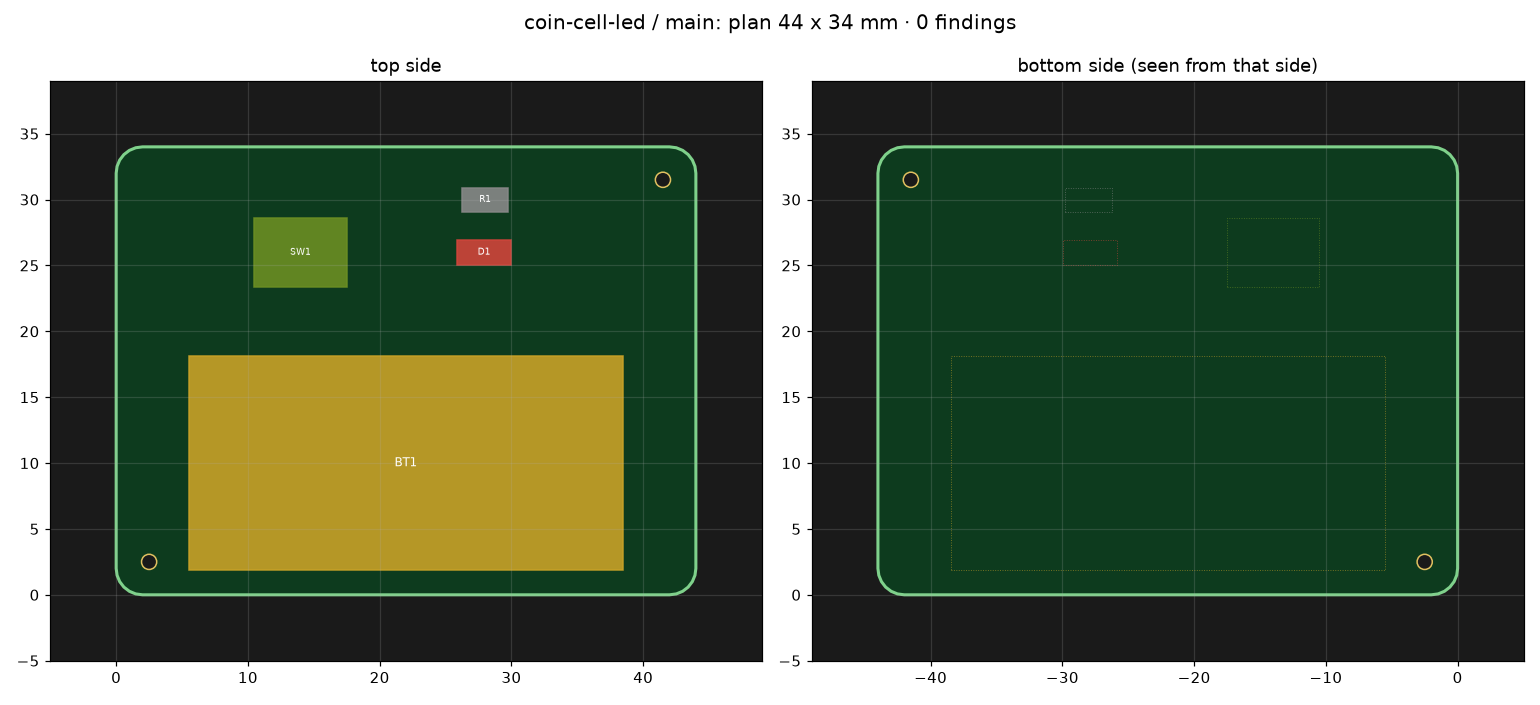
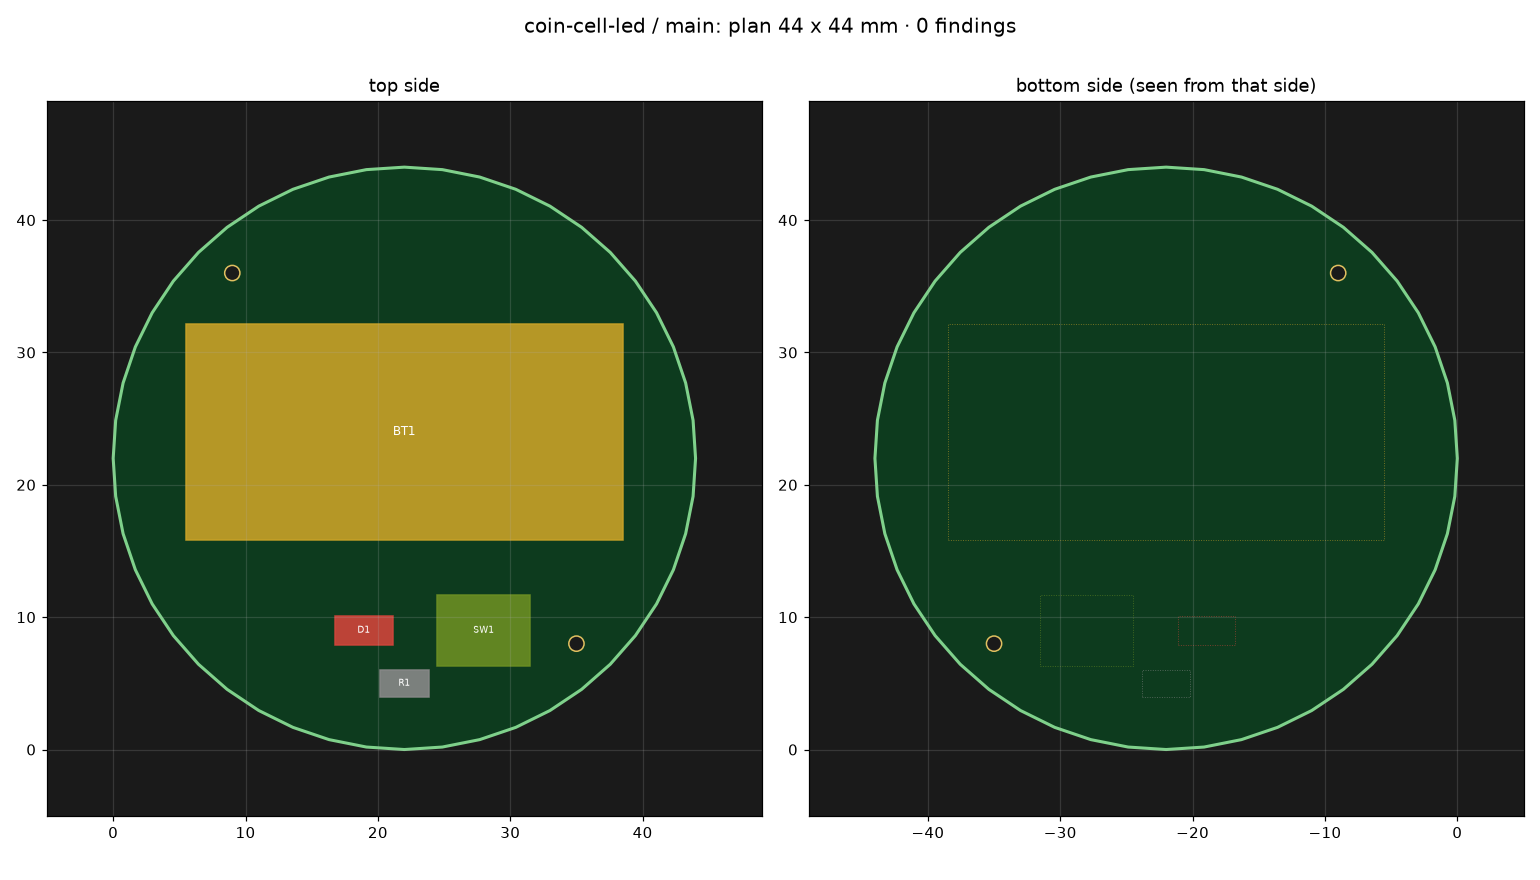
Walkthrough: the layout in EasyEDA, round, released – handbook 17.11, 17.12
You wanted the board round. It is Ø 44 mm, built as rect = [44, 44] with corner_radius = 22 (D-6). The change is to
the layout only: the circuit hash stays, and M-1 and M-6 keep counting.

The EasyEDA round ran live on the project coin-cell-led, each command in under half a minute:
- schematic create and layout;
- pcb parts --write, dump and apply;
- route all: 4 nets, 16 track pieces, 2 vias; the one Import Changes click; DRC 0;
- silk apply.

The agent pcb-reviewer (M-5) found nothing blocking and four notes:
- BT1's designator and the board label now sit above the cell (your choice);
- [order] gives JLCPCB a remark that the tooling holes are the customer's;
- [looks] visible = "top";
- hand_solder_keep_mm is not set: it covers through-hole joints only, and the reviewer withdrew the note.

The second gate run carried the notes. M-5 is signed for its fab hash, and the third run says RELEASED.

17.11 and 17.12 now show the real outputs. The example gains main.geometry.json and the picture of its top side, its
README and the sign-offs follow, and test_walkthrough expects no note now that the footprint geometry is in the
repository.

diff --git a/tests/test_walkthrough.py b/tests/test_walkthrough.py
@@ -26,8 +26,7 @@ def example(tmp_path):
 
 def test_check_has_the_accepts_and_nothing_else(example):
     rep = engines.run_all(Design.from_config(example), example)
-    assert rep.errors == [] and rep.warnings == []
-    assert [f.code for f in rep.notes] == ["GEO.hole"]         # not run: a fresh clone has no footprint geometry
+    assert rep.errors == [] and rep.warnings == [] and rep.notes == []
     assert sorted((f.code, f.place) for f in rep.accepted) == [
         ("HINT.bulk", "BT1"), ("HINT.debounce", "SW1"), ("HINT.lithium", "BT1"), ("PATH.reverse", "R1.1")]
     assert {f.code for f in rep.pending} <= {"PARTS.stock"}    # the stock snapshot of 2026-10-29 ages

diff --git a/handbook/17-walkthrough.md b/handbook/17-walkthrough.md
@@ -5,8 +5,8 @@ from the idea to the delivered boards, in the order things happen. Each step say
 an agent in a session of its own, a command –, which file it writes, what is checked and what came out. The project is
 [examples/coin-cell-led](../examples/coin-cell-led/).
 
-The outputs are from real runs between 29 and 31 October 2026, shortened where a `…` stands. Everything in EasyEDA
-(17.11 on) has not run for this board yet and is described instead of shown.
+The outputs are from real runs between 29 and 31 October 2026, shortened where a `…` stands. What happens after the
+release – the order and the delivered boards (17.12) – is described instead of shown.
 
 A finding names its code: the engine that found it and the relation it checks – `PATH.reverse` is about the paths a
 reversed cell takes, `SIM.state` about what the simulation expects (chapter 14). `edakit explain <code>` gives the
@@ -338,6 +338,9 @@ what drives the cost:
   edge rails: the PCB is priced as 44 × 44 mm
 ```
 
+The size is that of the first plan, a rectangle; the round board of 17.11, Ø 44 mm, costs the same – 20.65 USD as
+Economic.
+
 Three ways out, as PARTS.stock says. The same BS-6 holder by Lian Xin (C22363833) is "Economic and Standard"
 (`edakit stock --lcsc C22363833`), and `edakit part diff C70377 C22363833` lays its pads on the old ones without a
 shift – but its drawing does not say which pad is plus. So BT1 is soldered by hand (D-4): `"bom": false` in the graph,
@@ -464,34 +467,49 @@ orientation among them.
 
 EasyEDA cannot create a project through its API: you create `coin-cell-led` once by hand (*File → New → Project*) and
 leave it open (6.1). A project with `toolchain = "kicad"` skips that: edakit writes the KiCad project itself, and the
-same steps run on KiCad's files (chapter 16). Then a session of its own takes the layout – `/edakit:pcb-round`, the PCB designer –, starting
-from `edakit handover`. It writes the board file: outline, JLCPCB's tooling holes, a row in `[place]` for every part
-(SYNC.plan) – here by hand, four parts; `edakit pcb place --rest` finds a spot for every part still without a row (7.4) –,
-and a "+" next to the holder – the footprint's own ⊕ lies under the holder's body:
+same steps run on KiCad's files (chapter 16). Then a session of its own takes the layout – `/edakit:pcb-round`, the PCB
+designer –, starting from `edakit handover`.
+
+You want the board round, "so that it gets more exciting". That is a wish for the layout: it changes the board file,
+not the circuit – the circuit hash stays, and M-1 and M-6 keep counting. A circle is a square whose corner radius is
+half its side (D-6). The board file holds the outline, JLCPCB's tooling holes, a row in `[place]` for every part
+(SYNC.plan) – here by hand, four parts; `edakit pcb place --rest` finds a spot for every part still without a row
+(7.4) –, a "+" next to the holder, because the footprint's own ⊕ lies under the holder's body, and – after the
+layout review, step 5 below – where BT1's designator and the board label go, which face people see, and a remark for
+JLCPCB's form:
 
 ```toml
 revision = "1"
 
-[outline]
-rect = [44, 34]
-corner_radius = 2
+[outline]                  # round, Ø 44 mm: a square whose corner radius is half its side
+rect = [44, 44]
+corner_radius = 22
+arc_steps = 12             # 48 chords, 45 µm off the circle
 
-[tooling]                  # JLCPCB Economic PCBA: non-plated holes in opposite corners
-holes = [[2.5, 2.5], [41.5, 31.5]]
+[tooling]                  # JLCPCB Economic PCBA: two non-plated holes, diagonally opposite
+holes = [[9, 36], [35, 8]]
 
 [place]                    # the hand-over's fixed parts BT1, SW1, D1 – and R1, so that every part has its row (SYNC.plan)
-BT1 = { x = 22, y = 10, rot = 0, side = "top" }   # the cell reaches 2 mm past its box: to the lower edge, 3 mm short of SW1
-SW1 = { x = 14, y = 26, rot = 0, side = "top" }
-D1  = { x = 28, y = 26, rot = 0, side = "top" }   # next to SW1: the LED shows the press
-R1  = { x = 28, y = 30, rot = 0, side = "top" }
+BT1 = { x = 22, y = 24, rot = 0, side = "top" }    # the cell (Ø 20 mm) almost concentric; 10 mm free above it to lever it out
+SW1 = { x = 28, y = 9, rot = 0, side = "top" }
+D1  = { x = 19, y = 9, rot = 0, side = "top" }     # next to SW1: the LED shows the press
+R1  = { x = 22, y = 5, rot = 180, side = "top" }   # R1.1 towards SW1, R1.2 towards D1's anode
 
 [silk]
 designators = "top"
+place = { BT1 = { x = 22, y = 35.6, rot = 0, side = "top" } }   # above the cell: under it the cell hides it
+board_label_region = [[11, 37.6], [33, 37.6], [33, 39.8], [11, 39.8]]   # centred above the designator
+
+[looks]
+visible = "top"            # the face people see: stage L holds its tracks and vias
+
+[order]
+remark = "Round board, no V-cut, no tabs. 2 tooling holes added by customer."
 
 [[silk.texts]]             # the footprint's own ⊕ lies under the holder's body; this "+" stays visible – GEO.mark holds it to BT1.1
 text = "+"
-x = 41
-y = 10
+x = 40.3
+y = 24
 h_mm = 1.5
 side = "top"
 ```
@@ -502,32 +520,111 @@ hand-over (SYNC.plan) – and draws it:
 ```text
 $ edakit pcb plan
   library geometry (edakit part import, not yet from the PCB): BT1, D1, R1, SW1
-  4 fixed parts, 0 for the auto-layout; airline length of the fixed parts (without GND): 0.05 m
+  4 fixed parts, 0 for the auto-layout; airline length of the fixed parts (without GND): 0.02 m
 ```
 
-![The placement plan of coin-cell-led: BT1 at the lower edge, SW1, D1 and R1 above it](../examples/coin-cell-led/docs/pcb_plan_main.png)
+![The placement plan of coin-cell-led: a round board, BT1 in the middle, D1, R1 and SW1 below it](../examples/coin-cell-led/docs/pcb_plan_main.png)
 
 In EasyEDA – after `/edakit:start`, which checks the bridge and claims EasyEDA for the session (11.2) – the round goes
-(chapters 6 and 7):
+as follows (chapters 6 and 7). Each command ran in less than half a minute:
 
 1. `edakit schematic create --save`, `edakit schematic layout --save`: the template and the readable schematic, each
-   saved only when its netlist equals the graph.
+   saved only when its netlist equals the graph:
+
+   ```text
+   [ 0.4 min] step 9/11: netlist against the graph
+     4/4 nets match the graph
+   [ 0.4 min] step 10/11: ERC
+     {"project_id": "current", "total_violations": 0, "error_count": 0, "warning_count": 0, "passed": true, …}
+   …
+   done: 4 placed, 0 skipped, 0 pin mismatches, 0 pin failures, 0 differing nets
+   ```
+
 2. `edakit pcb parts --write`: the four parts into the PCB, without the import dialog; `edakit pcb dump`: their
    footprints as placed, into `hardware/boards/main.geometry.json`; `edakit pcb apply`: outline, tooling holes, every
-   part where the plan puts it.
-3. `edakit route all`: Freerouting routes, the ground pour, DRC. When the DRC waits for *Design → Import Changes*,
-   that is your one click (7.3).
-4. `edakit silk apply`: designators where there is room, and the silkscreen checked on the Gerber files.
-5. The agent pcb-reviewer reviews the round on its Gerber export, in a session of its own.
+   part where the plan puts it:
+
+   ```text
+   [ 0.1 min] step 5/7: outline and holes
+     outline: 48 points, 0 holes
+   [ 0.1 min] step 6/7: tooling holes
+     2 tooling holes Ø 1.152 mm (NPTH), 0 old ones replaced
+   [ 0.1 min] step 7/7: pad check
+     pad check (4 parts): largest deviation 0.001 mm (BT1.2)
+   ```
+
+3. `edakit route all`: Freerouting routes, the ground pours, DRC. The area outside the circle goes to Freerouting as
+   66 keep-out strips:
+
+   ```text
+   [ 0.0 min] DSN: 4 nets with >= 2 pins, 12 pads, 5 padstacks, 2 hole keep-outs, 66 edge strips, 0 keep-out pieces, …
+   [ 0.2 min] check: 4 nets routed, 16 track pieces, 2 vias; open: 0
+   [ 0.2 min] track widths (GEO.width offline): 4 nets, 0 below IPC-2221 for 1.5 x the simulated current, 0 below the …
+   [ 0.4 min] step 8/8: drc
+   [ 0.4 min]   DRC: 1 findings – {('Netlist Error', 'Import Changes', None): 1}
+   [ 0.5 min]   EasyEDA waits for the import acknowledgement: open Design → Import Changes once, it shows no changes …
+   ```
+
+   The parts came into the PCB without EasyEDA's import, and its DRC waits until the import view has been opened
+   once. edakit has compared schematic and PCB beforehand – nothing differs –, so that is your one click (7.3):
+   *Design → Import Changes*, it shows no changes, OK. It comes last, after the silkscreen; then `edakit route drc`:
+   `DRC: 0 findings`.
+4. `edakit silk apply`: designators where there is room, the board label, and the silkscreen checked on the Gerber
+   files:
+
+   ```text
+     board label 'Coin cell LED rev 1' at (21.9, 38.2) mm
+     top: 4 of 4 designators placed, fixed: BT1; without room: –
+     top: silkscreen on mask openings 0.000 mm² (target 0), picture -> …/build/edakit/silk_main_top.png
+   ```
+
+   ![The top side of coin-cell-led from its Gerber files: the round board, label and BT1 above the holder, "+" beside pad 1, D1, R1 and SW1 below](../examples/coin-cell-led/docs/silk_main_top.png)
+
+5. The agent pcb-reviewer reviews the round, in a session of its own, on the manufacturing files of a gate run
+   (17.12). Nothing blocked; it had four notes:
+   - BT1's designator lay under the cell;
+   - the board label sat 8 mm left of the axis;
+   - without `[order]` no file said that the tooling holes are the customer's – JLCPCB might drill its own on the face
+     people see;
+   - `hand_solder_keep_mm` was not set.
+
+   You chose to move both texts above the cell, as it proposed – how the board looks is yours to decide. The
+   designer took the remark for JLCPCB and `[looks]` too. The fourth note it answered: the key covers through-hole
+   joints only, and BT1 has SMD tabs – the reviewer withdrew it. A second `silk apply`, a second gate run, a second
+   look: only the top silkscreen and the order settings had changed (`edakit fab diff`), and the reviewer signed M-5
+   for that run's files.
 
 ## 17.12 Release, order, acceptance
 
 `edakit gate --easyeda` runs every stage, the last ones on the files that go to JLCPCB: the schematic equals the graph
 (SYNC.schematic), the copper of the Gerber files connects what the graph connects (GEO.copper), the "+" lies next to
 BT1's plus pad (GEO.mark), the BOM leaves BT1 out (SYNC.bom), the pick-and-place file has every assembled part once
-(SYNC.cpl). The layout review
-M-5 is done by the agent pcb-reviewer on that run's files; the next run with the same files counts it, and only a run
-whose protocol says **RELEASED** may be uploaded (8.3).
+(SYNC.cpl), the order settings fit JLCPCB's form (FILES.order). The layout review M-5 is done by the agent
+pcb-reviewer on a run's files and bound to their fab hash; the next run with the same files counts it, and only a run
+whose protocol says **RELEASED** may be uploaded (8.3). Here it took three runs: the first passed every stage with M-5
+open, the second followed the review's notes, the third counted M-5:
+
+```text
+$ edakit gate --easyeda
+[ 0.0 min] step 1/4: P/G parts and graph
+[ 0.0 min] step 2/4: E simulation
+[ 0.0 min] step 3/4: S schematic against the graph
+[ 0.0 min] step 4/4: L/F board and manufacturing files: main
+RELEASED
+requirements: 1 passed, 1 open after the export (section 11 of the protocol)
+```
+
+```text
+| S Schematic | EasyEDA schematic = graph (parts, LCSC, nets, pins, no-connects) | 1 | 0 | 0 | 0 | 0 | passed |
+| L Board | PCB = graph and plan, copper from the Gerber files, DRC, footprints, track widths, holes | 34 | 0 | 0 | 0 | 0 | passed |
+| F Manufacturing | BOM from the graph = EasyEDA, JLCPCB stock, pick and place, Gerber set, outline, manifest | 18 | 0 | 0 | 0 | 0 | passed |
+```
+
+The run's folder holds what goes to JLCPCB – `fab/main/gerber_main.zip`, `bom_main.csv`, `cpl_main.csv`, the form's
+fields in `order.md` – and `fab/polarity_main.png` for M-2. A gate run is build output (`[release] archive`, default
+`"none"`, 8.3): a new run makes the files again from the repository, and the sign-offs say which hashes they must
+have. What is ordered, a project publishes with `edakit release publish` as a release on GitHub (8.3) – this example
+lives inside edakit's repository and does not.
 
 The order goes up to JLCPCB's cart, and no further – nothing in edakit orders or pays (8.4):
 
@@ -577,5 +674,10 @@ Like the Christmas bell (13.6), this board found gaps on its way, and each one w
 - **A polarity hint for a holder PATH.reverse had checked.** HINT.input_polarity said that nothing checks the
   polarity of a battery holder not marked reversible – but PATH.reverse starts from every holder by its kind. The
   electrical reviewer found it in M-1; the hint names unmarked supply connectors only now (JST packs, barrel jacks).
+- **A round board had four points twice.** A corner radius of half the side makes a circle, and each of its four arcs
+  began where the one before ended: four segments of length 0 in the outline EasyEDA and Freerouting got. The outline
+  drops a point equal to the one before now.
+- **The drawings of this chapter on the documentation site** linked to GitHub's page of the file, which is no image;
+  the site carries the images now.
 - `edakit order` said "1 parts by hand", and `edakit block add` still sent you to `edakit hints`, which had gone with
   the codes.

diff --git a/examples/coin-cell-led/README.md b/examples/coin-cell-led/README.md
@@ -1,9 +1,11 @@
 # Example: coin-cell-led
 
 Press the button and a red LED lights, from a CR2032 coin cell – the project of the walkthrough in
-[handbook chapter 17](../../handbook/17-walkthrough.md), which tells step by step how it came about. One board,
-44 × 34 mm; JLCPCB assembles the button, the LED and its resistor (Economic, top side), the coin cell holder is
-soldered by hand (D-4).
+[handbook chapter 17](../../handbook/17-walkthrough.md), which tells step by step how it came about. One round board,
+Ø 44 mm (D-6); JLCPCB assembles the button, the LED and its resistor (Economic, top side), the coin cell holder is
+soldered by hand (D-4). Released on 2026-10-31.
+
+![The top side of the board from its Gerber files](docs/silk_main_top.png)
 
 | File | |
 |---|---|
@@ -14,17 +16,19 @@ soldered by hand (D-4).
 | [hardware/sim.json](hardware/sim.json) | a fresh and a used cell × button pressed and released × the LED's corners, and a cell upside down |
 | [hardware/stock.json](hardware/stock.json) | what JLCPCB said about the assembled parts on 2026-10-29 |
 | [hardware/schematic.toml](hardware/schematic.toml) | the block of the drawing and its notes |
-| [hardware/boards/main.toml](hardware/boards/main.toml) | the board: outline, tooling holes, placement plan, a "+" beside the holder |
-| [hardware/signoff.json](hardware/signoff.json) | the manual checks: M-1 and M-6 signed by the review agents, M-5, M-2, M-4 open |
-| [docs/decisions.md](docs/decisions.md) | D-1 to D-5 |
-| [docs/schematic.svg](docs/schematic.svg), [docs/pcb_plan_main.png](docs/pcb_plan_main.png) | drawn by `edakit schematic draw` and `edakit pcb plan` |
+| [hardware/boards/main.toml](hardware/boards/main.toml) | the board: round outline, tooling holes, placement plan, silkscreen, looks, a remark for JLCPCB |
+| [hardware/boards/main.geometry.json](hardware/boards/main.geometry.json) | the footprints as placed in EasyEDA (`edakit pcb dump`) |
+| [hardware/signoff.json](hardware/signoff.json) | the manual checks: M-1, M-6 and M-5 signed by the review agents; M-2 (before paying) and M-4 (the delivered boards) open |
+| [docs/decisions.md](docs/decisions.md) | D-1 to D-6 |
+| [docs/schematic.svg](docs/schematic.svg), [docs/pcb_plan_main.png](docs/pcb_plan_main.png), [docs/silk_main_top.png](docs/silk_main_top.png) | drawn by `edakit schematic draw`, `edakit pcb plan` and `edakit silk apply` |
 
 Offline, from this folder:
 
 ```bash
 edakit check      # 0 errors; PATH.reverse accepted (a cell upside down: D1 blocks it, D-3) and three hints
 edakit sim        # 9 scenarios, 95 comparisons
-edakit gate       # P, G, E pass; NOT RELEASED: M-5 open, stages S, L, F need EasyEDA
+edakit gate       # P, G, E pass; NOT RELEASED offline: stages S, L, F and M-5 (bound to the Gerber files) need EasyEDA
 ```
 
-Not done yet: everything in EasyEDA – handbook 17.11 says what comes there.
+With the EasyEDA project `coin-cell-led` open, `edakit gate --easyeda` exports the manufacturing files and says
+RELEASED (handbook 17.11, 17.12). Not done: the order and the delivered boards (M-2, M-4).

diff --git a/examples/coin-cell-led/docs/decisions.md b/examples/coin-cell-led/docs/decisions.md
@@ -30,8 +30,8 @@ that reason.
 
 ## D-4 BT1 soldered by hand (2026-10-29)
 
-JLCPCB places the holder C70377 only under Standard PCBA ("Standard Only", PARTS.stock from `edakit stock`): 52.60 USD for
-5 boards instead of 20.65 USD with BT1 left out (`edakit cost`). Its two SMD tabs are easy to solder by hand
+JLCPCB places the holder C70377 only under Standard PCBA ("Standard Only", PARTS.stock from `edakit stock`): 52.60 USD
+for 5 boards instead of 20.65 USD with BT1 left out (`edakit cost`). Its two SMD tabs are easy to solder by hand
 (`bom: false`; `edakit order` puts five into the LCSC cart). The same BS-6 holder by Lian Xin (C22363833) is
 "Economic and Standard" on the same footprint – `edakit part diff C70377 C22363833` lays the pads on each other
 unchanged – but its drawing does not say which pad is plus.
@@ -41,3 +41,10 @@ unchanged – but its drawing does not say which pad is plus.
 Adults, at a desk; the board is kept out of the reach of small children. The holder keeps the CR2032 open and the cell
 comes out by hand – a swallowed lithium coin cell burns. For a child the board would be a toy, with a holder that needs
 a tool or a screwed cover (M-6, note 1). Given away it would be a gift, sold a sale: a new purpose and a new M-6.
+
+## D-6 A round board (2026-10-31)
+
+The owner wants it round. Ø 44 mm – `rect = [44, 44]` with `corner_radius = 22` in the board file, 48 chords, 45 µm
+off the circle. The holder sits almost in the middle, the cell (Ø 20 mm) nearly concentric with the board, with 10 mm
+above it to lever it out; button, LED and resistor below. The two tooling holes of the Economic assembly are
+diagonally opposite. A layout decision: the circuit hash stays, and M-1 and M-6 keep counting.
